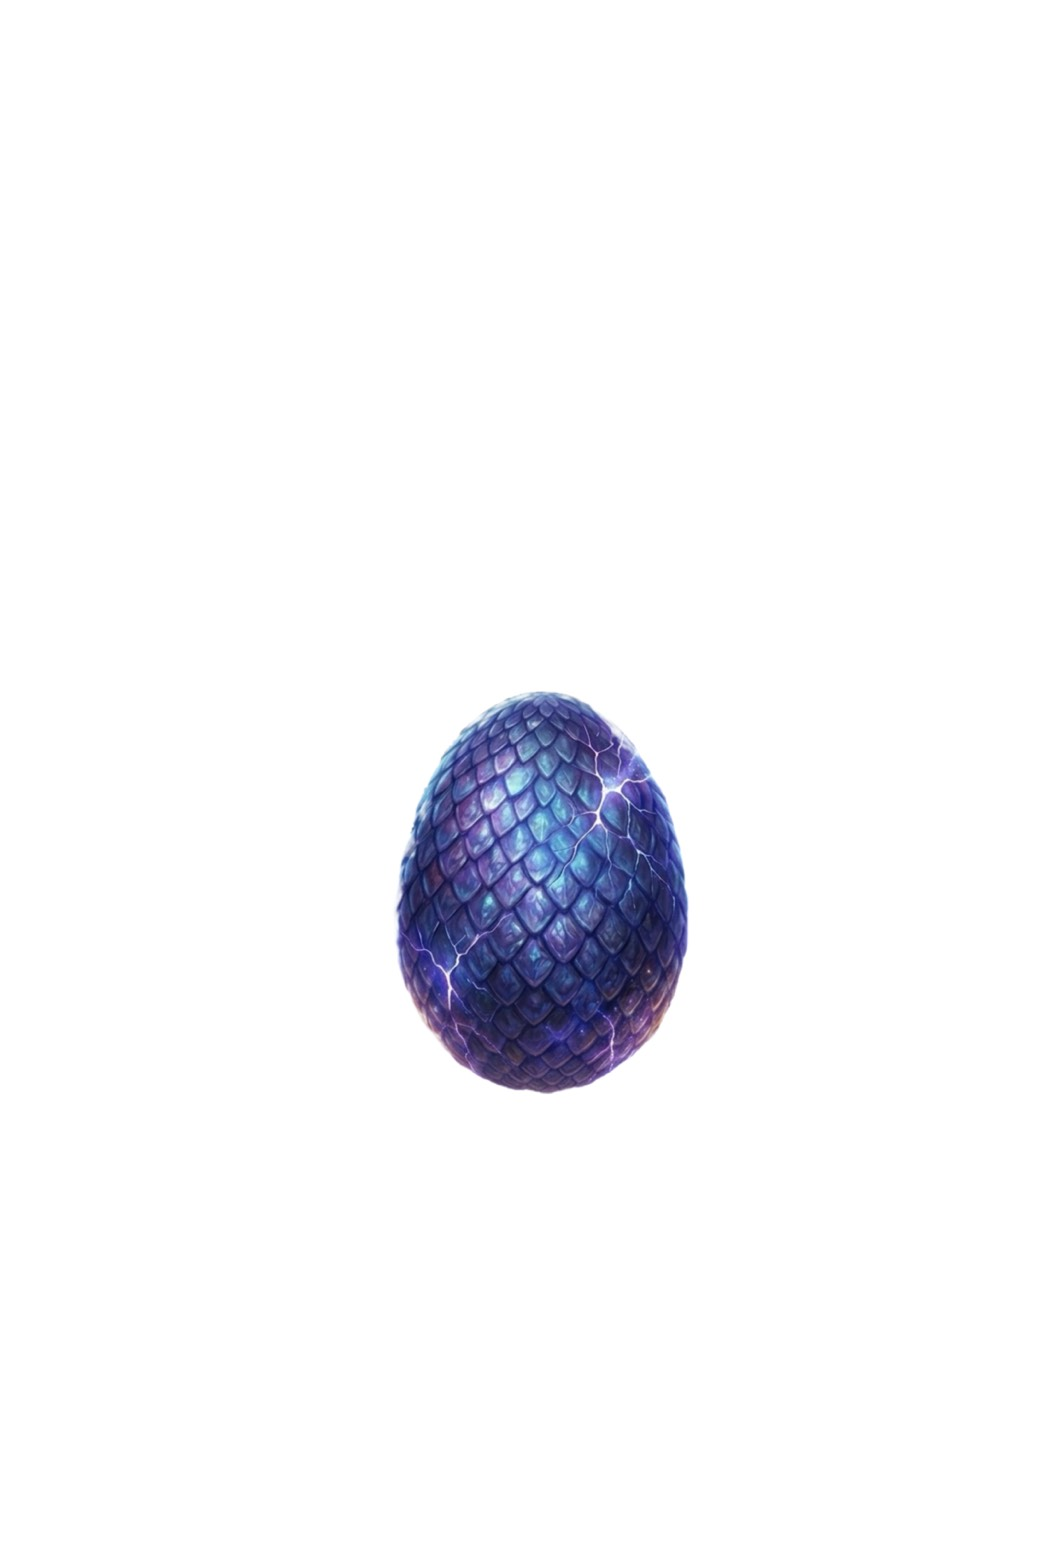
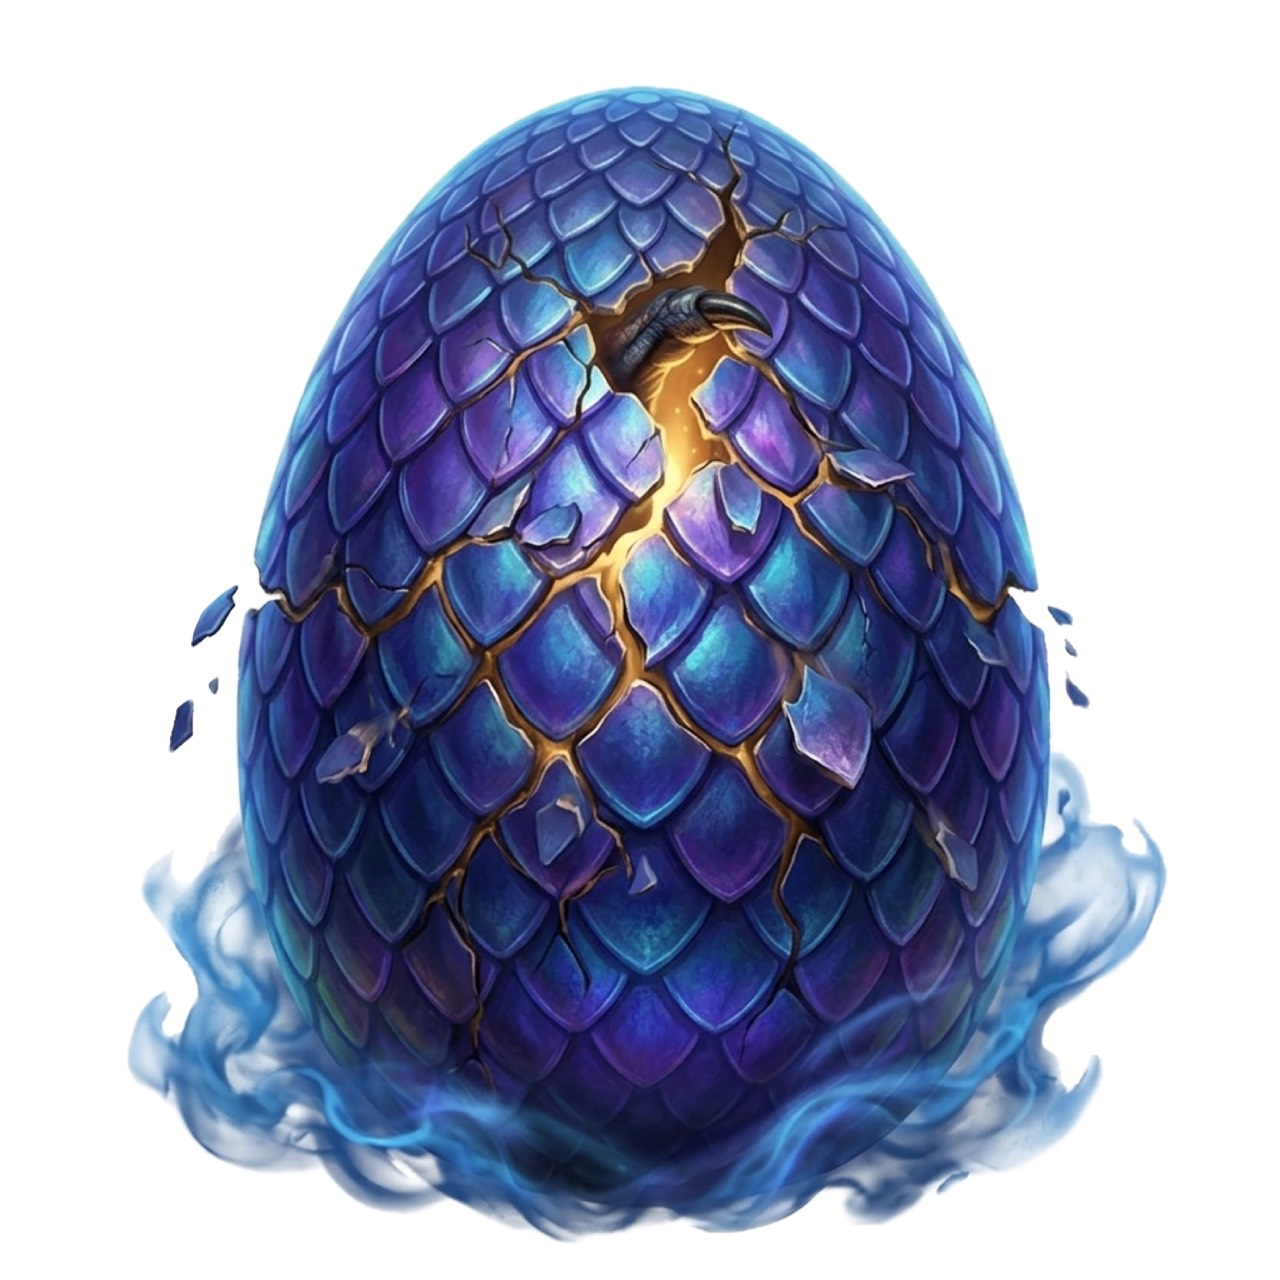
v114: update stage3 hatch image to the newly provided asset, crop its background, and adjust its visual sizing to accurately match the first stage egg

diff --git a/index.html b/index.html
@@ -16,7 +16,7 @@
   <link rel="preconnect" href="https://fonts.googleapis.com">
   <link rel="preconnect" href="https://fonts.gstatic.com" crossorigin>
   <link href="https://fonts.googleapis.com/css2?family=Orbitron:wght@400;700;900&family=Noto+Sans+JP:wght@300;400;500;700&display=swap" rel="stylesheet">
-  <link rel="stylesheet" href="css/index.css?v=113">
+  <link rel="stylesheet" href="css/index.css?v=114">
 </head>
 <body>
   <!-- プレイヤー登録モーダル -->
@@ -373,11 +373,11 @@
   <!-- BGMプレイヤー用 -->
   <div id="youtubePlayer" style="position: absolute; width: 1px; height: 1px; top: -9999px; left: -9999px; opacity: 0; pointer-events: none;"></div>
 
-  <script src="js/main.js?v=113"></script>
+  <script src="js/main.js?v=114"></script>
   <!-- Google API Scripts -->
   <script async defer src="https://apis.google.com/js/api.js" onload="gapiLoaded()"></script>
   <script async defer src="https://accounts.google.com/gsi/client" onload="gisLoaded()"></script>
   <script src="https://www.youtube.com/iframe_api"></script>
-  <script src="js/google_api.js?v=113"></script>
+  <script src="js/google_api.js?v=114"></script>
 </body>
 </html>

diff --git a/js/main.js b/js/main.js
@@ -1170,6 +1170,14 @@ function updateDragonNest(stageIndex) {
     img.style.height = smallStyle;
     img.style.top = offsetStyle;
     img.style.left = offsetStyle;
+  } else if (stageIndex === 2) { // 第三段階（ひびの卵）も第一段階と同じサイズにする（藁はなし）
+    nest.style.display = 'none';
+    const smallStyle = '60%';
+    const offsetStyle = '20%';
+    img.style.width = smallStyle;
+    img.style.height = smallStyle;
+    img.style.top = offsetStyle;
+    img.style.left = offsetStyle;
   } else {
     nest.style.display = 'none';
     

diff --git a/crop_stage3.py b/crop_stage3.py
@@ -1,0 +1,19 @@
+from PIL import Image
+img = Image.open('assets/dragons/stage3_hatch.png').convert('RGBA')
+data = img.getdata()
+w = img.width
+h = img.height
+min_y = h
+max_y = 0
+min_x = w
+max_x = 0
+for y in range(h):
+    for x in range(w):
+        if data[y*w+x][3] > 0:
+            min_y = min(min_y, y)
+            max_y = max(max_y, y)
+            min_x = min(min_x, x)
+            max_x = max(max_x, x)
+print("Stage 3 Hatch:", w, "x", h, "Bounds:", max_x - min_x, "x", max_y - min_y)
+cropped = img.crop((min_x, min_y, max_x, max_y))
+cropped.save('assets/dragons/stage3_hatch_cropped.png')
